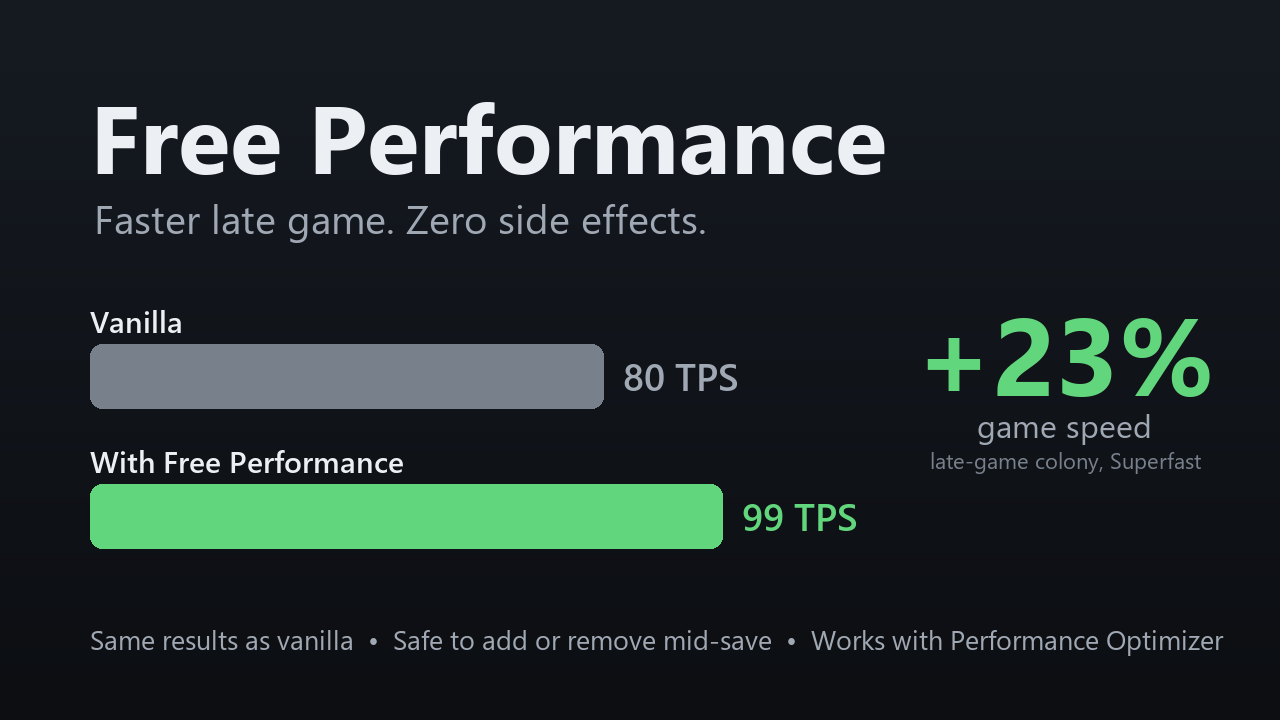
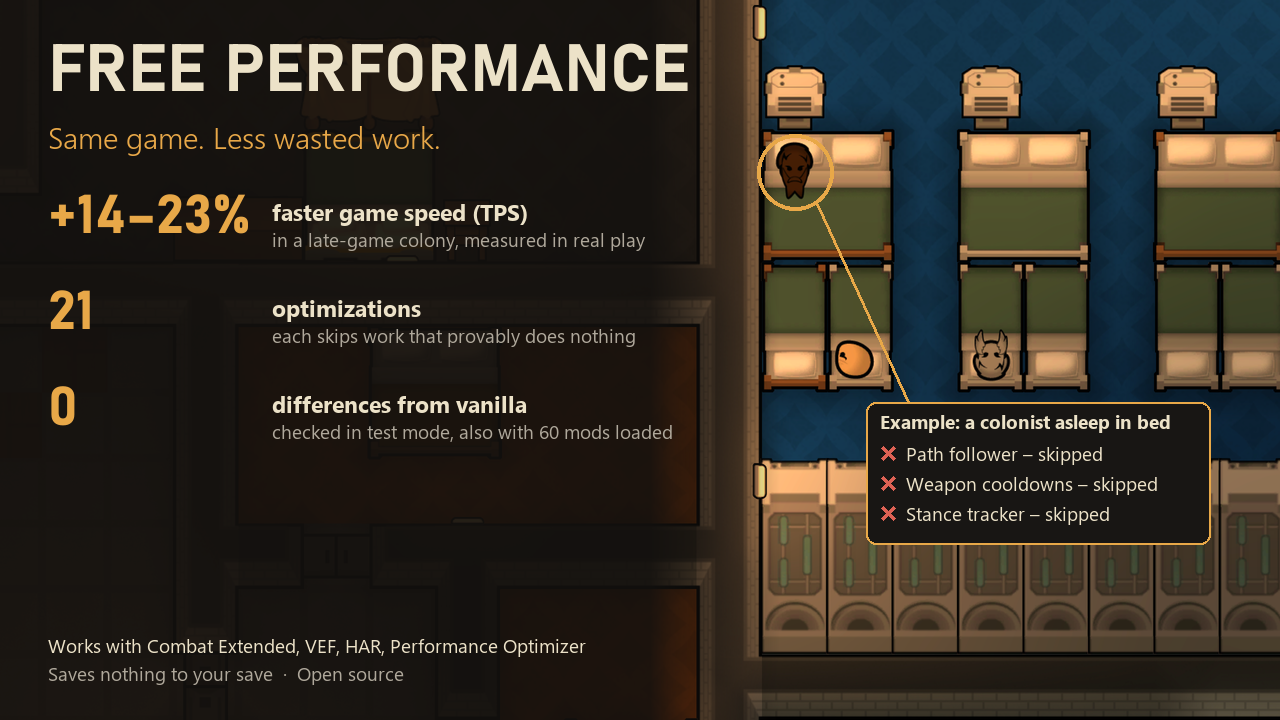
New Workshop preview image rendered from the game (scene mode in the portrait bench)

diff --git a/Source/ParallelTick/Bench/PortraitComponent.cs b/Source/ParallelTick/Bench/PortraitComponent.cs
@@ -35,7 +35,7 @@ namespace ParallelTick.Bench
                 return;
             started = true;
             Find.TickManager.CurTimeSpeed = TimeSpeed.Paused;
-            Find.CameraDriver.StartCoroutine(Guarded(Render()));
+            Find.CameraDriver.StartCoroutine(Guarded(Get("scene", "") != "" ? Scene() : Render()));
         }
 
         /// <summary>Runs the render coroutine; if it throws, writes the error as the result and quits instead of hanging.</summary>
@@ -67,6 +67,52 @@ namespace ParallelTick.Bench
             var p = Get(key, fallback).Split(',').Select(x => float.Parse(x.Trim(), CultureInfo.InvariantCulture)).ToArray();
             return new Color(p[0], p[1], p[2]);
         }
+
+        /// <summary>
+        /// portrait.scene=sleep: screenshots of the loaded colony as the game draws it (UI hidden), centred on colonists
+        /// asleep in bed (or portrait.pawn=Name), for the Workshop image. Keys: camsize (camera zoom, default 7), count
+        /// (how many pawns, default 4), supersize (screenshot scale, default 2), offsetx / offsetz (camera shift in cells).
+        /// </summary>
+        private static IEnumerator Scene()
+        {
+            var dir = Path.Combine(Path.GetDirectoryName(BenchConfig.ResultPath) ?? ".", "portraits");
+            Directory.CreateDirectory(dir);
+            foreach (var old in Directory.GetFiles(dir))
+                File.Delete(old);
+            var log = new List<string>();
+            var map = Find.CurrentMap;
+            var name = Get("pawn", "");
+            var pawns = name != ""
+                ? map.mapPawns.AllPawnsSpawned.Where(p => p.LabelShort == name).ToList()
+                : map.mapPawns.FreeColonistsSpawned.Where(p => p.InBed() && !p.Awake()).ToList();
+            foreach (var p in map.mapPawns.FreeColonistsSpawned)
+                log.Add($"colonist {p.LabelShort} at {p.Position}: job {p.CurJobDef?.defName}, in bed {p.InBed()}, awake {p.Awake()}");
+            var camSize = float.Parse(Get("camsize", "7"), CultureInfo.InvariantCulture);
+            var superSize = int.Parse(Get("supersize", "2"));
+            var offset = new Vector3(float.Parse(Get("offsetx", "0"), CultureInfo.InvariantCulture), 0f,
+                float.Parse(Get("offsetz", "0"), CultureInfo.InvariantCulture));
+            Find.ScreenshotModeHandler.Active = true;
+            // Name and bed labels are GUI overlays that screenshot mode keeps; hide them for the capture.
+            if (Get("labels", "off") == "off")
+                ParallelTickMod.Harmony.Patch(HarmonyLib.AccessTools.Method(typeof(ThingOverlays), nameof(ThingOverlays.ThingOverlaysOnGUI)),
+                    prefix: new HarmonyLib.HarmonyMethod(typeof(PortraitComponent), nameof(NoOverlays)));
+            foreach (var pawn in pawns.Take(int.Parse(Get("count", "4"))))
+            {
+                Find.CameraDriver.SetRootPosAndSize(pawn.DrawPos + offset, camSize);
+                for (var i = 0; i < 20; i++)
+                    yield return null;
+                yield return new WaitForEndOfFrame();
+                var tex = ScreenCapture.CaptureScreenshotAsTexture(superSize);
+                var file = Path.Combine(dir, $"scene_{pawn.LabelShort}.png");
+                File.WriteAllBytes(file, tex.EncodeToPNG());
+                log.Add($"saved {file} ({tex.width}x{tex.height})");
+                UnityEngine.Object.Destroy(tex);
+            }
+            File.WriteAllText(BenchConfig.ResultPath, "Scene render\n" + string.Join("\n", log) + "\n");
+            Root.Shutdown();
+        }
+
+        public static bool NoOverlays() => false;
 
         private static IEnumerator Render()
         {

diff --git a/bench/make-preview.py b/bench/make-preview.py
@@ -1,0 +1,85 @@
+from PIL import Image, ImageDraw, ImageFont
+import os, sys
+
+SRC = r"E:RimWorldModsParallelTickbenchdataportraitsscene_Creak.png"  # from: run-bench.ps1 -Portrait "scene=sleep|camsize=4|count=4|supersize=4"
+OUT = sys.argv[1] if len(sys.argv) > 1 else "preview.png"
+W, H = 1280, 720
+
+src = Image.open(SRC).convert("RGB")
+w, h = src.size
+# 2x crop around the centre (rendered at 4x, so still sharp at 1280x720)
+SHIFT = 440  # source px: moves the scene right by SHIFT/2 output px
+bg = src.crop((w // 4 - SHIFT, h // 4, w * 3 // 4 - SHIFT, h * 3 // 4)).resize((W, H), Image.LANCZOS)
+
+# Dark panel on the left for text, fading into the picture.
+shade = Image.new("L", (W, H), 0)
+d = ImageDraw.Draw(shade)
+for x in range(W):
+    a = 236 if x < 650 else int(236 * (780 - x) / 130) if x < 780 else 0
+    d.line([(x, 0), (x, H)], fill=a)
+img = Image.composite(Image.new("RGB", (W, H), (18, 16, 14)), bg, shade)
+draw = ImageDraw.Draw(img)
+
+F = r"C:\Windows\Fonts"
+def font(name, size, bold=False):
+    f = ImageFont.truetype(os.path.join(F, name), size)
+    if bold:
+        try:
+            f.set_variation_by_name("Bold")
+        except Exception:
+            pass
+    return f
+
+title = font("bahnschrift.ttf", 66, True)
+sub = font("segoeuisl.ttf", 30)
+big = font("bahnschrift.ttf", 54, True)
+desc = font("segoeui.ttf", 21)
+small = font("segoeui.ttf", 19)
+smallb = font("segoeuib.ttf", 19)
+
+BEIGE = (236, 226, 200)
+ORANGE = (232, 168, 72)
+RED = (222, 98, 84)
+GREY = (175, 168, 155)
+
+x0 = 48
+draw.text((x0, 38), "FREE PERFORMANCE", font=title, fill=BEIGE)
+draw.text((x0, 116), "Same game. Less wasted work.", font=sub, fill=ORANGE)
+
+# Three headline numbers
+rows = [
+    ("+14–23%", "faster game speed (TPS)", "in a late-game colony, measured in real play"),
+    ("21", "optimizations", "each skips work that provably does nothing"),
+    ("0", "differences from vanilla", "checked in test mode, also with 60 mods loaded"),
+]
+y = 190
+for num, line1, line2 in rows:
+    draw.text((x0, y), num, font=big, fill=ORANGE)
+    nx = x0 + max(draw.textlength("+14–23%", font=big), 0) + 22
+    draw.text((nx, y + 6), line1, font=font("segoeuib.ttf", 23), fill=BEIGE)
+    draw.text((nx, y + 36), line2, font=small, fill=GREY)
+    y += 96
+
+# Footer
+draw.text((x0, H - 88), "Works with Combat Extended, VEF, HAR, Performance Optimizer", font=small, fill=BEIGE)
+draw.text((x0, H - 60), "Saves nothing to your save  ·  Open source", font=small, fill=GREY)
+
+# Example on the right: the sleeping colonist
+px, py = 575 + SHIFT // 2, 172
+draw.ellipse([px - 38, py - 38, px + 38, py + 38], outline=ORANGE, width=4)
+bx, by = 880, 410
+draw.line([(px + 22, py + 32), (bx + 30, by - 4)], fill=ORANGE, width=3)
+lines = ["Example: a colonist asleep in bed", "Path follower", "Weapon cooldowns", "Stance tracker"]
+bw = 330
+bh = 30 + 30 * (len(lines) - 1) + 14
+draw.rounded_rectangle([bx - 14, by - 8, bx + bw, by + bh], radius=10, fill=(24, 22, 20), outline=ORANGE, width=2)
+draw.text((bx, by - 2), lines[0], font=smallb, fill=BEIGE)
+yy = by + 30
+for t in lines[1:]:
+    draw.line([(bx + 2, yy + 7), (bx + 14, yy + 19)], fill=RED, width=3)
+    draw.line([(bx + 14, yy + 7), (bx + 2, yy + 19)], fill=RED, width=3)
+    draw.text((bx + 26, yy), t + " – skipped", font=small, fill=BEIGE)
+    yy += 30
+
+img.save(OUT, optimize=True)
+print(OUT, os.path.getsize(OUT))
